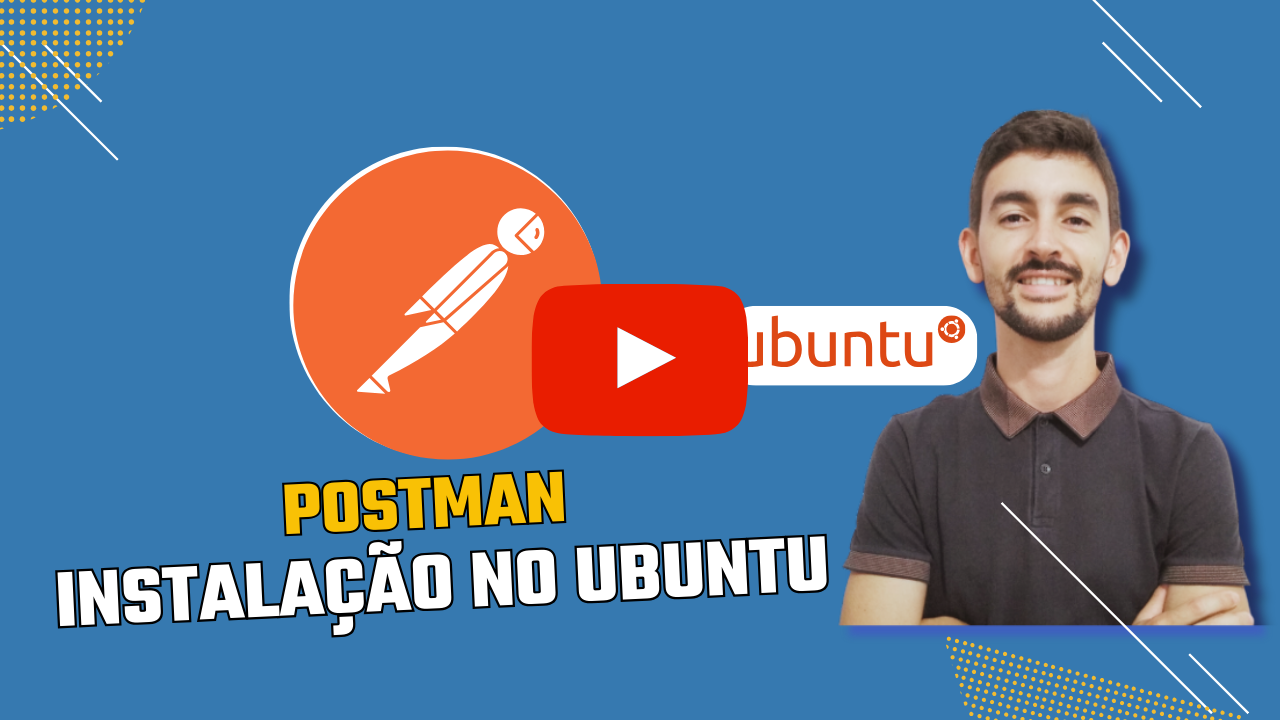
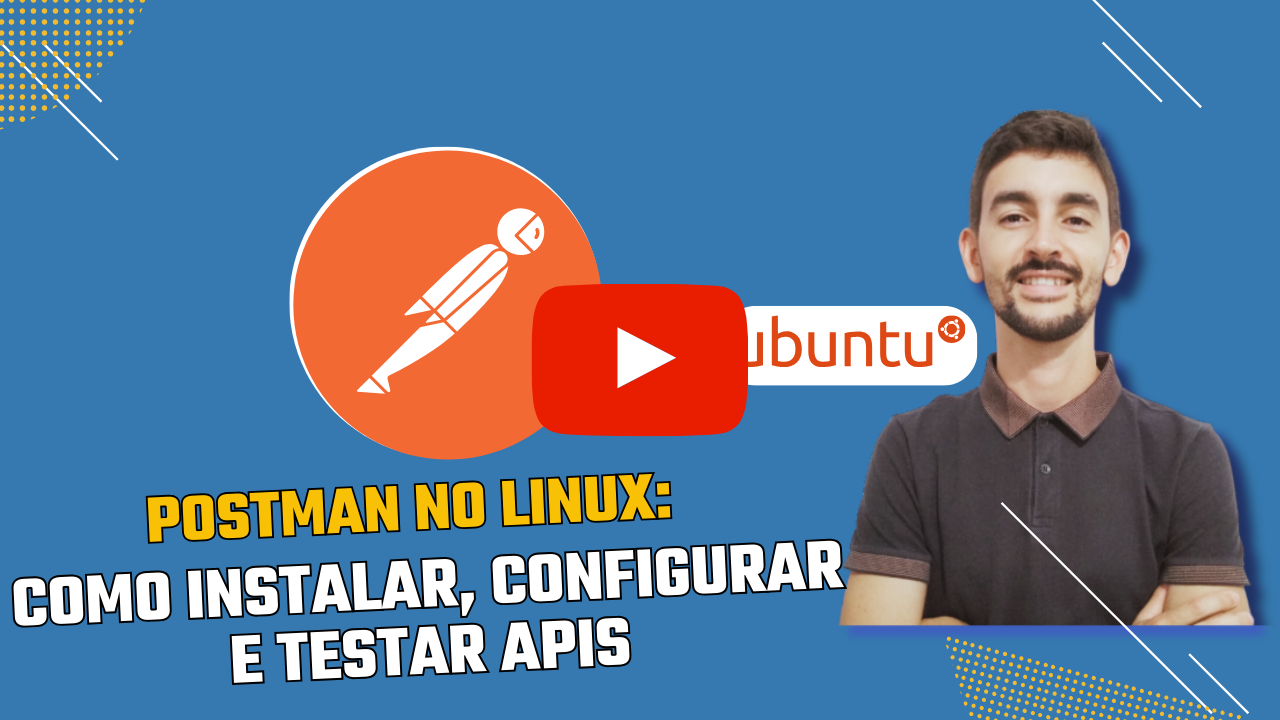
style(Link e thumbnail): Inclusão do Link vídeo e atualização Thumbnail.

Changed region(s): [[0.0, 0.6417, 0.6562, 0.9472]]

diff --git a/README.md b/README.md
@@ -9,10 +9,10 @@ https://www.youtube.com/@renato-coelho
 ## Apresentação em Vídeo
 
 <p align="center">
-  <a href="https://www.youtube.com/@renato-coelho" target="_blank"><img src="imagens/thumbnail/thumbnail-postman-ubuntu-github-01.png" alt="Vídeo de instalação do Postman no Ubuntu"></a>
+  <a href="https://youtu.be/vzWDQPcx4Lk" target="_blank"><img src="imagens/thumbnail/thumbnail-postman-ubuntu-github-01.png" alt="Vídeo de instalação do Postman no Ubuntu"></a>
 </p>
 
-![YouTube Video Views](https://img.shields.io/youtube/views/????????) ![YouTube Video Likes](https://img.shields.io/youtube/likes/????????)
+![YouTube Video Views](https://img.shields.io/youtube/views/vzWDQPcx4Lk) ![YouTube Video Likes](https://img.shields.io/youtube/likes/vzWDQPcx4Lk)
 
 ## Requisitos
 
